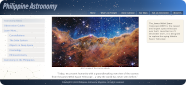
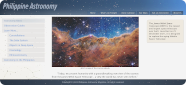
Random updates

diff --git a/portfolio/portfolio.html b/portfolio/portfolio.html
@@ -74,7 +74,10 @@
 				get content() { return content.innerHTML },
 				set content(string) { content.innerHTML = string },
 				get thumb() { return content.dataset.thumb },
-				set thumb(string) { content.style.backgroundImage=`url(thumbs/${content.dataset.thumb = string})` },
+				set thumb(string) {
+					let thumbs = window.matchMedia("(prefers-color-scheme: dark)").matches ? "thumbs-dark" : "thumbs" ;
+					content.style.backgroundImage=`url(${thumbs}/${content.dataset.thumb = string})`
+				},
 				get pos() { let rect = element.getBoundingClientRect(); return [rect.left, rect.top]},
 				set pos(arr) { this.style.left = arr[0] + "px"; this.style.top = arr[1] + "px"},
 				get center() { let rect = element.getBoundingClientRect(); return [rect.left + rect.width/2, rect.top + rect.height/2]},
@@ -117,6 +120,15 @@
 			}
 			return 0;
 		}
+
+		adjustColorTheme() {
+			for (var i = 0; i < this.items.length; i++) {
+				let content = this.items[i].element.querySelector(".content");
+				let thumbs = window.matchMedia("(prefers-color-scheme: dark)").matches ? "thumbs-dark" : "thumbs" ;
+				content.style.backgroundImage=`url(${thumbs}/${this.items[i].thumb})`
+			}
+			return 0;
+		}
 	}
 
 	class DropBox {
@@ -142,6 +154,10 @@
 			});
 		}
 		ondrop() {void(0)}
+	}
+
+	window.matchMedia("(prefers-color-scheme: dark)").onchange = () => {
+		portfolio.adjustColorTheme();
 	}
 
 	let reposition = () => {
